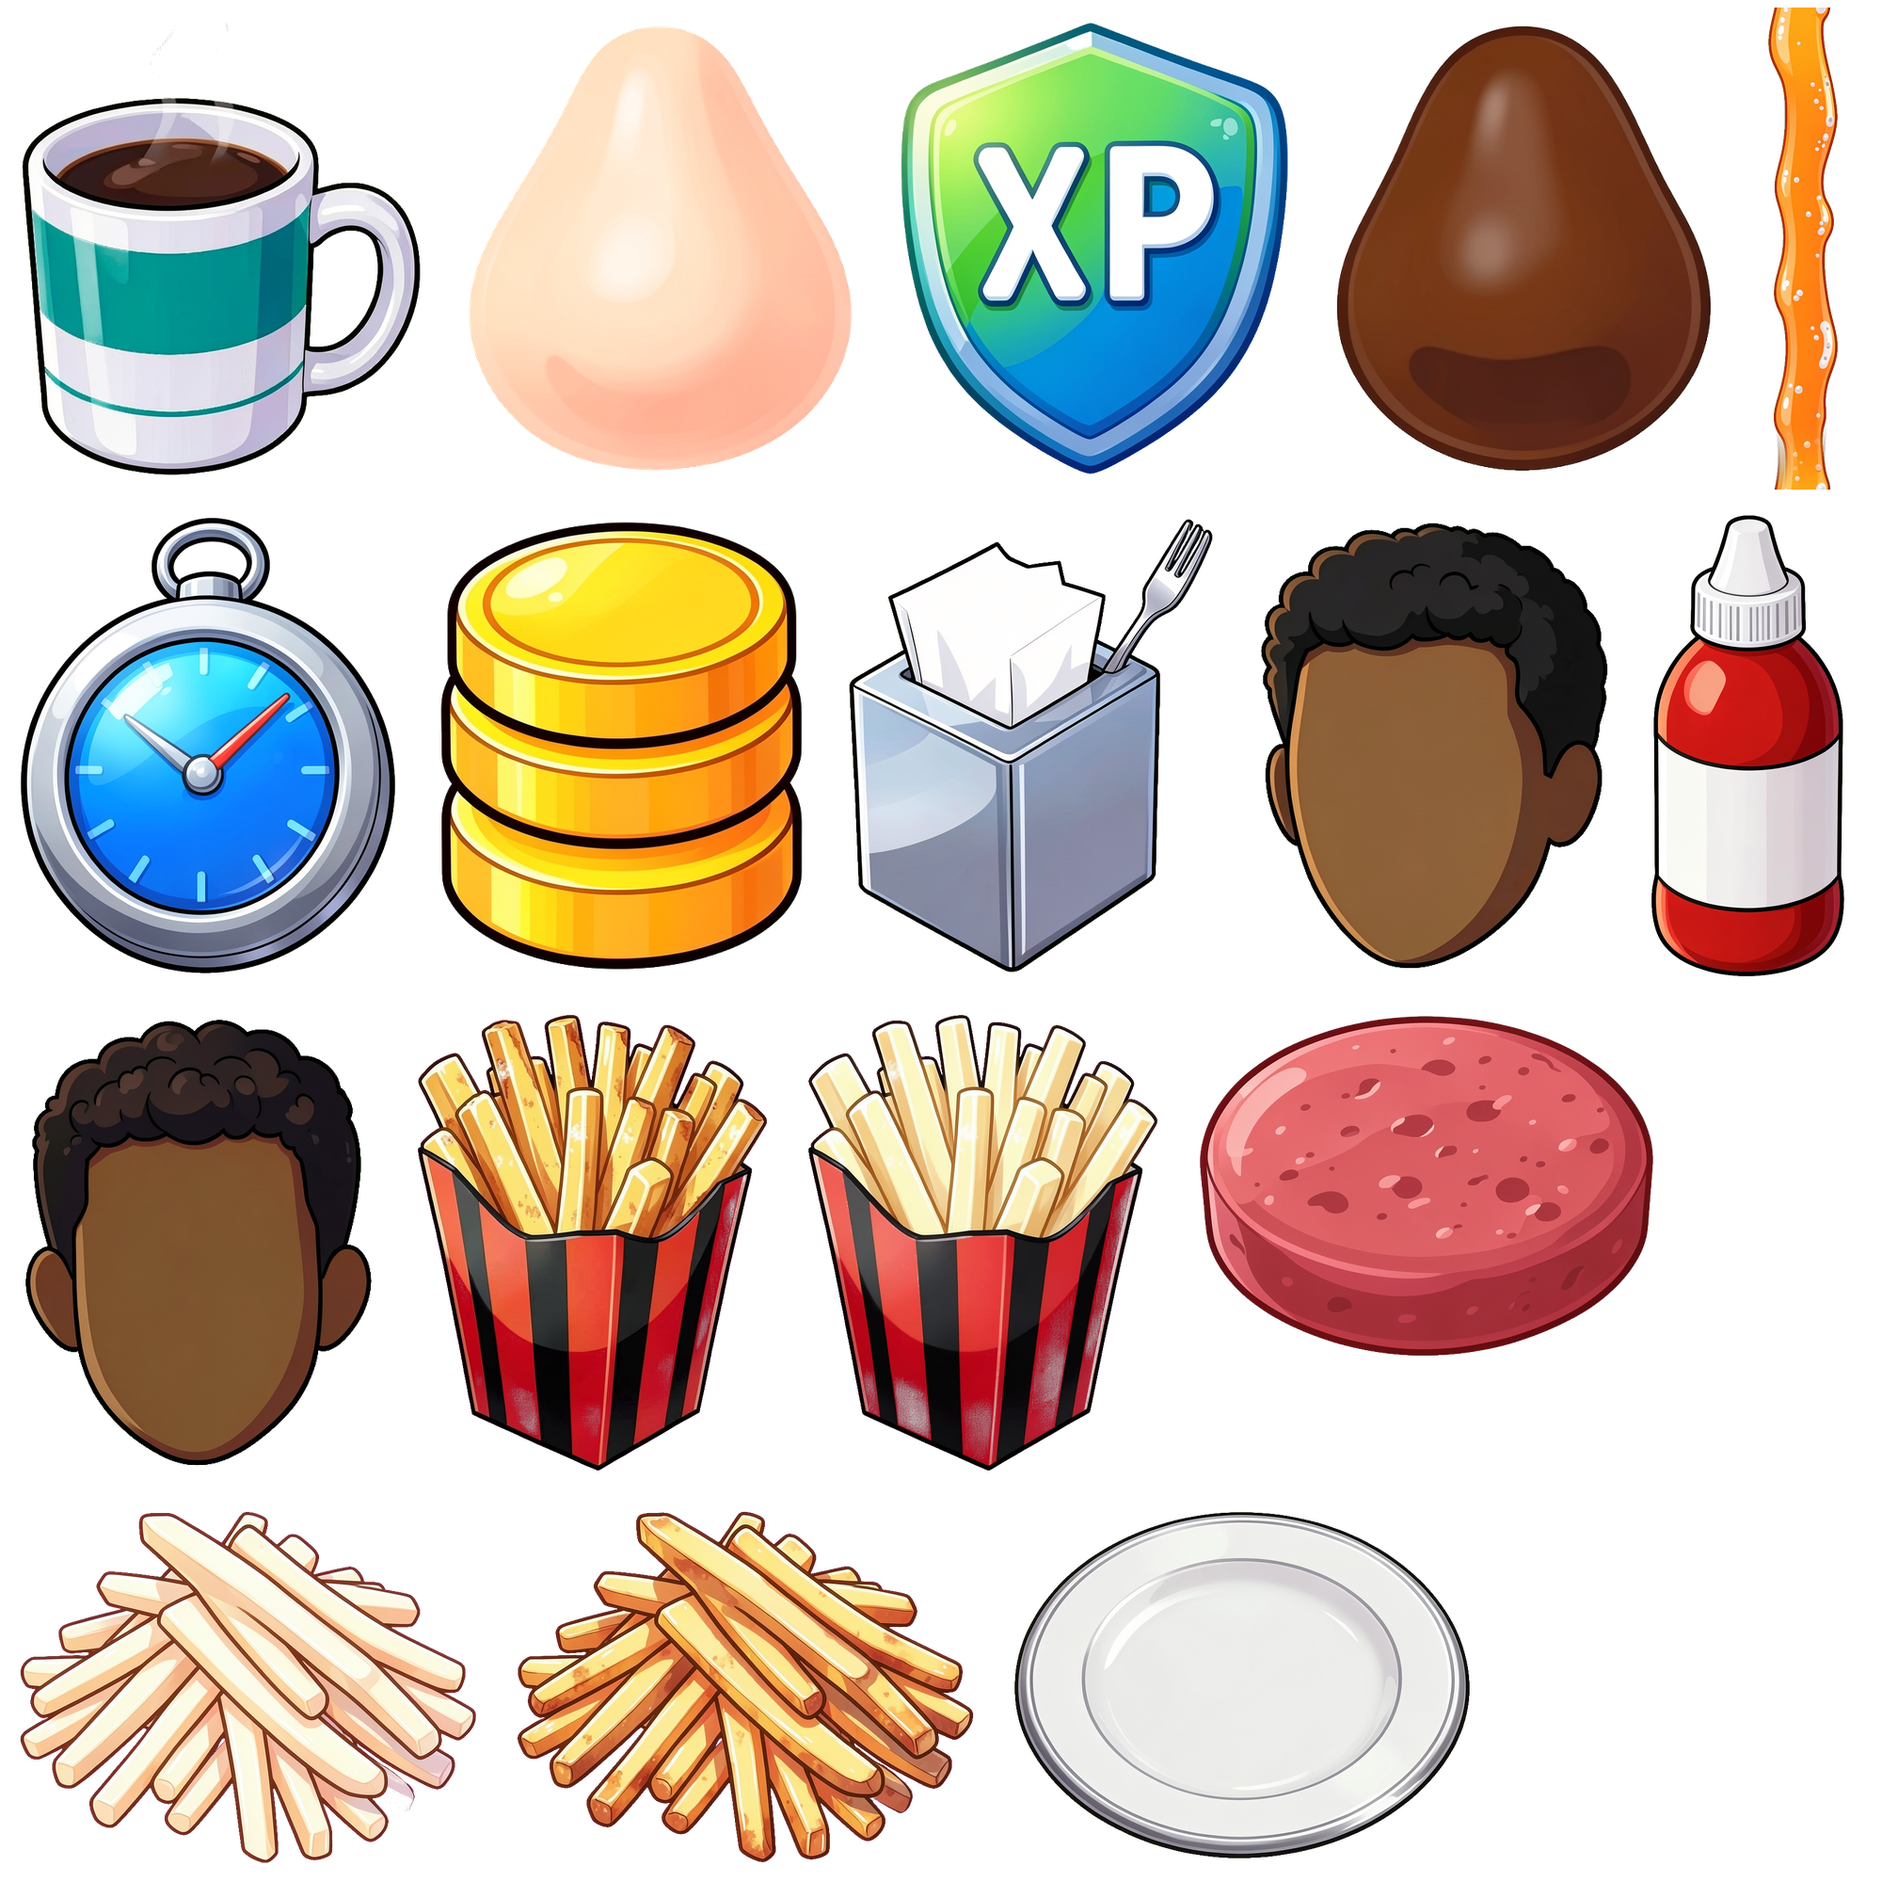
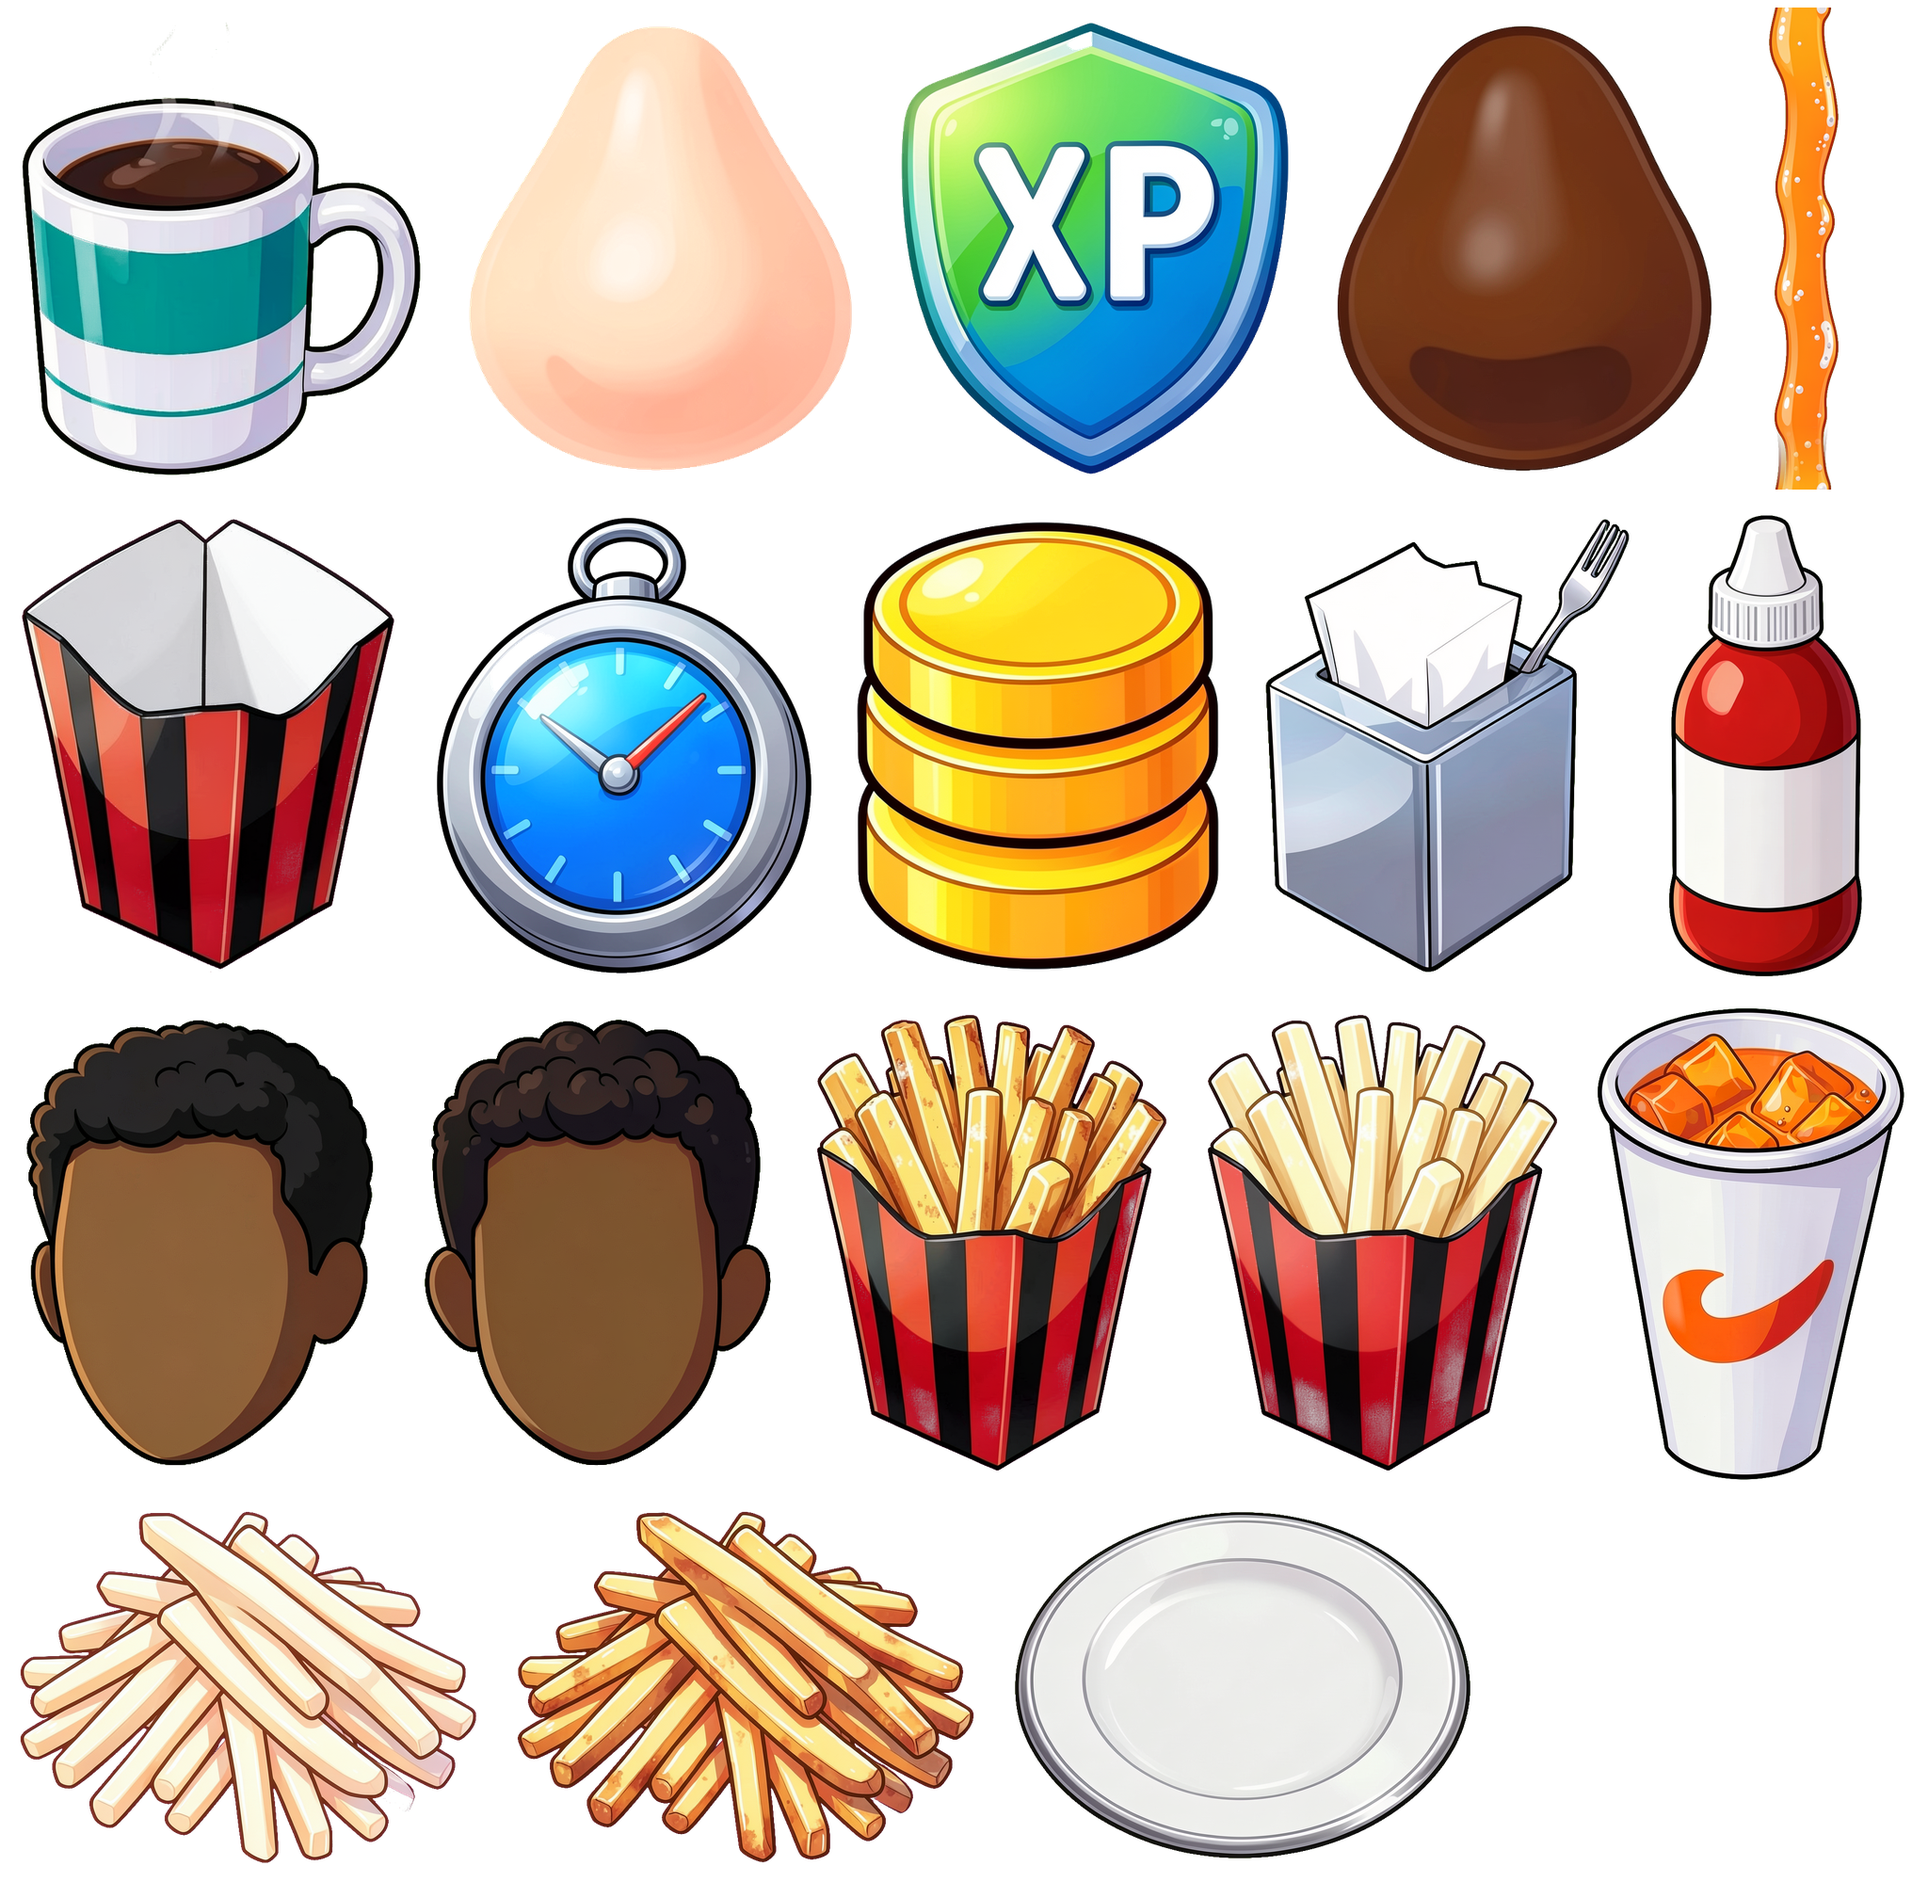
Cook2: accept fry_carton_empty redraw (2026-09-06), grill drag-pauses-cooking, atlas skips audio
- Accept fry_carton_empty Sep 6 redraw (locked to fries_cooked, scoop-front
  red-black carton) over the Sep 5 asset; regen + atlas rebuild, pose-verified.
- Grill: beginning a drag on a cooking item detaches it immediately so cooking
  pauses (slot.t preserved); a failed drop reattaches and resumes from the
  same t. Tap-select on cooking items still blocked — drag only.
- assets/atlas.py: skip non-image files (audio keepers in assets.json for the
  sfx bank crashed the packer); atlas packs images only.

diff --git a/cook2.html b/cook2.html
@@ -1087,7 +1087,7 @@ function onMove(e){
       const h=pDown.hit;let it=null;
       if(selected){it=selected;selected=null;}
       else if(h&&h.owner instanceof Item&&h.drag&&h.owner.kind==='plate'&&isLoneContainer(h.owner)){it=splitContainer(h.owner);it.g.position.set(p.x,p.y,0);}   // lone container lifts off; the plate stays bare
-      else if(h&&h.owner instanceof Item&&h.drag&&canPick(h.owner)){it=h.owner;detachItem(it);it.refresh();it.g.position.set(p.x,p.y,0);}   // pop to full size and snap to the pointer so ox/oy start at 0 and it adheres during the drag (like tray spawns)
+      else if(h&&h.owner instanceof Item&&h.drag&&(canPick(h.owner)||(h.owner.state==='cooking'&&h.owner.station instanceof Grill))){it=h.owner;detachItem(it);it.refresh();it.g.position.set(p.x,p.y,0);}   // cooking grill items: drag pauses cooking (take clears the slot so update() skips it); failed drop reattaches and resumes from the same t
       else if(h&&h.owner instanceof Fryer&&h.owner.item&&canPick(h.owner.item)){it=h.owner.item;detachItem(it);it.refresh();it.g.position.set(p.x,p.y,0);}   // fryer pile is invisible in the machine: grab it off the station and it appears in hand
       else if(h&&h.owner instanceof Tray){it=h.owner.dragOut();detachItem(it);if(it)it.g.position.set(p.x,p.y,0);}   // spawner: item pops into existence at the tray, not the cursor — snap it to the pointer so ox/oy start at 0 and it adheres during the drag
       if(it){drag={it,ox:it.g.position.x-p.x,oy:it.g.position.y-p.y,origin:{x:it.g.position.x,y:it.g.position.y}};it.setLayer(L.DRAG);it.g.scale.setScalar(1.15);SFX.pop();}

diff --git a/assets/atlas.py b/assets/atlas.py
@@ -103,6 +103,8 @@ def main():
     items = []
     for key in sorted(mapping):
         src = HERE / mapping[key]
+        if src.suffix.lower() not in ('.png', '.jpg', '.jpeg', '.webp', '.gif', '.bmp'):
+            continue   # audio keepers live in assets.json too (sfx bank); the atlas packs images only
         im = Image.open(src).convert("RGBA")
         cap = MAX_DIM.get(mapping[key].split('/')[0], MAX_DIM_DEFAULT)
         if max(im.width, im.height) > cap:
